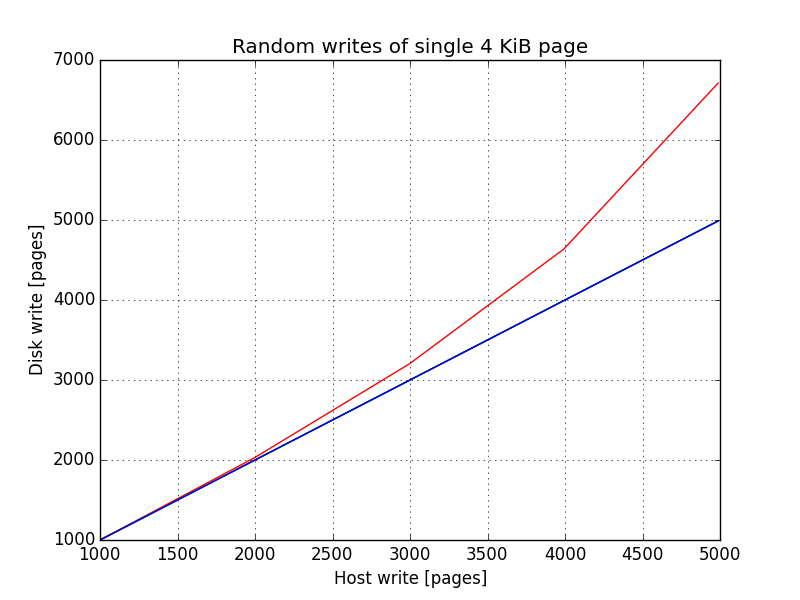
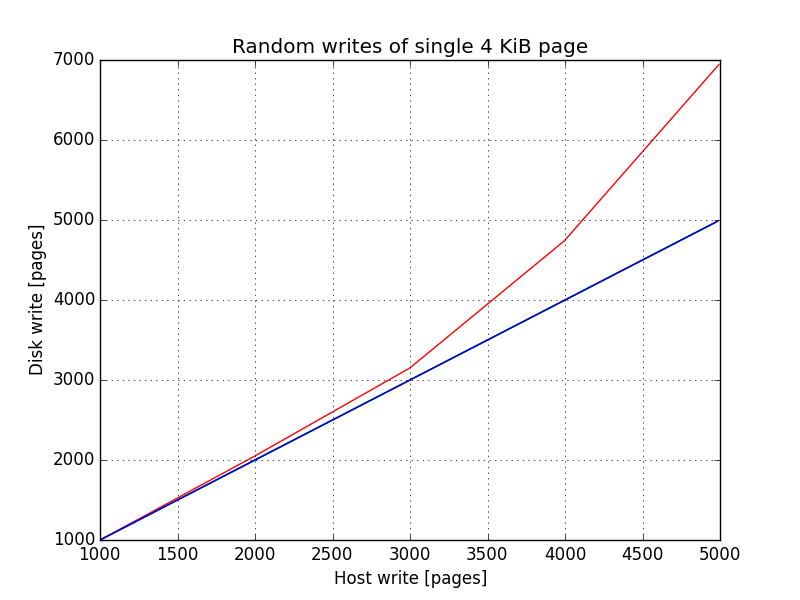
New default GC parameters after calibration

diff --git a/simulator/NAND/GarbageCollectors/GarbageCollectorSimple.py b/simulator/NAND/GarbageCollectors/GarbageCollectorSimple.py
@@ -17,18 +17,18 @@ class GarbageCollectorSimple(GarbageCollectorInterface):
     """
     To be written ...
     """
-    def __init__(self, mintime=500, dirtiness='0.3'):
+    def __init__(self, mintime=500, dirtiness='0.4'):
         getcontext().prec = DECIMAL_PRECISION
 
         # ATTRIBUTES
         # PARAMETERS
-        self.gc_param_mintime = mintime  # = 0.5 millisecond (every two writes)
+        self.gc_param_mintime = mintime  # = 500 microseconds (see simulation/simple_gc_test)
         """ Minimum time to wait before another run of the garbage collector.
             It's in microseconds (10^-6). Is an integer value. Must be greater or equal zero.
             If this value is zero then the gc is always executed.
         """
 
-        self.gc_param_dirtiness = Decimal(dirtiness)  # 30 %
+        self.gc_param_dirtiness = Decimal(dirtiness)  # 40 % (see simulation/simple_gc_test)
         """ Minimum percentage of dirty pages in a block to execute the garbage collector.
             It's a Decimal value and must be greater than 0 and maximum equal to 1.
             If it's equal to 1 then a block is cleaned only if all pages are dirty.
